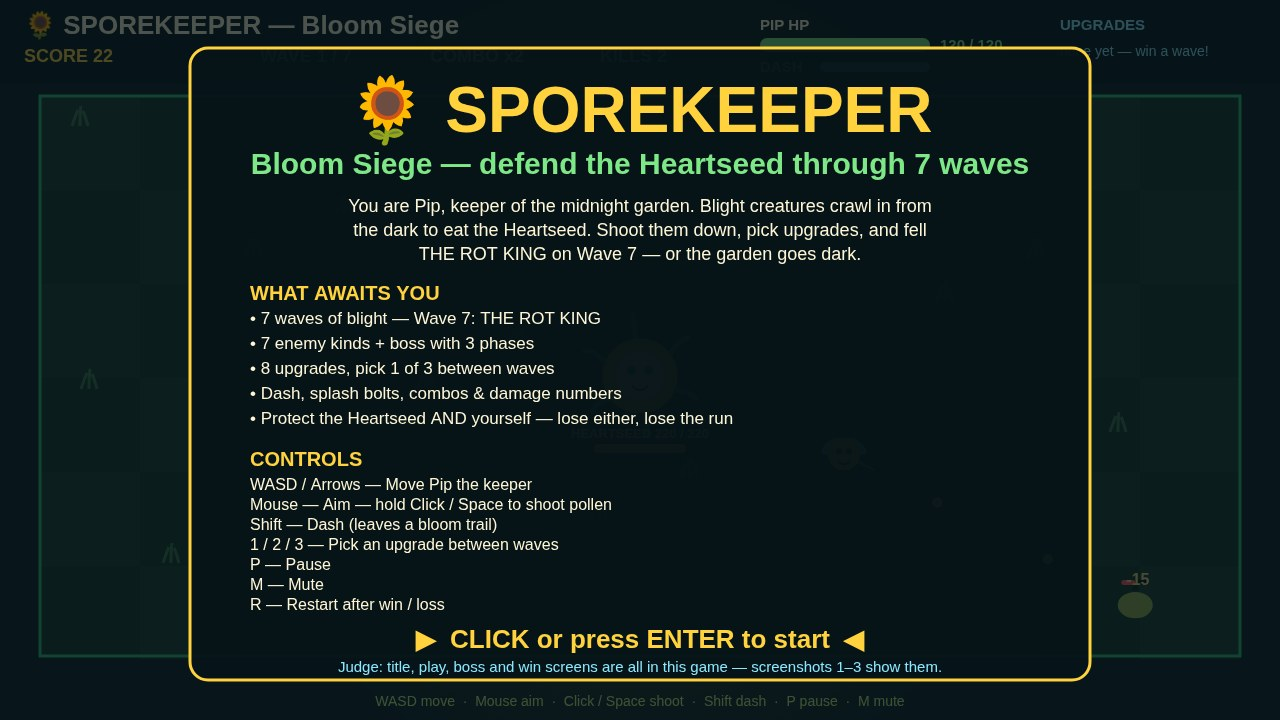
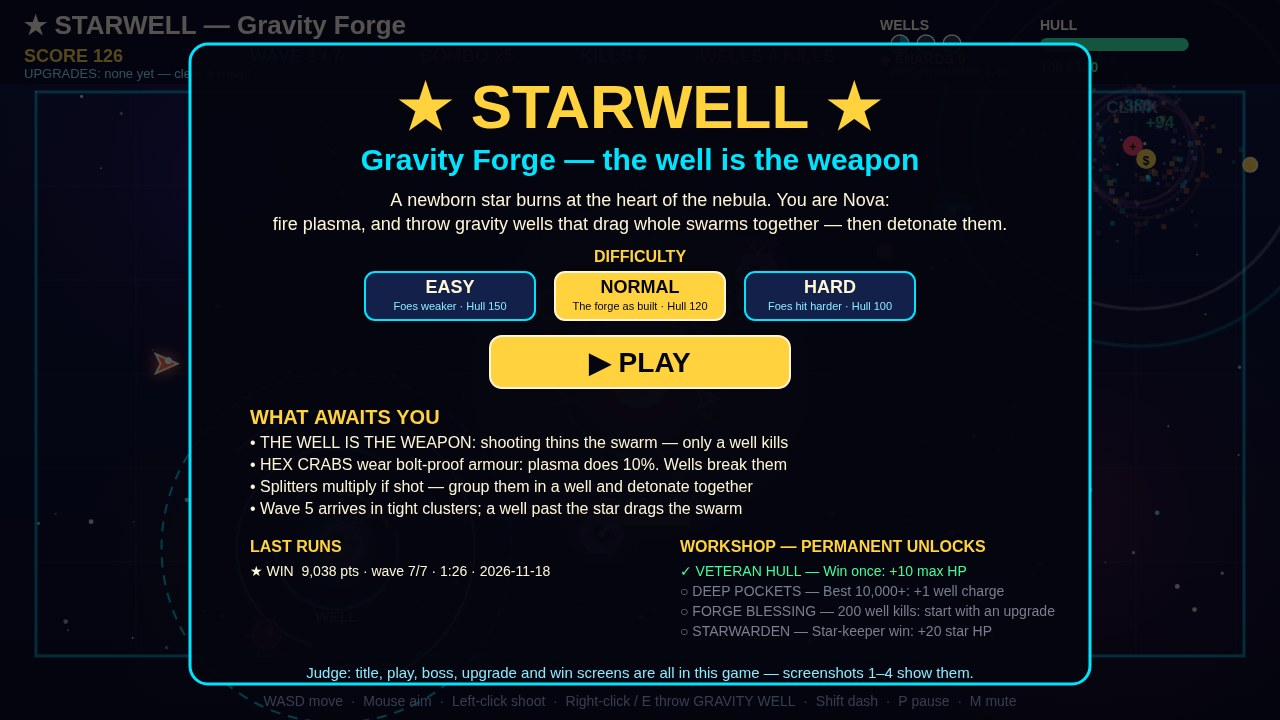
STARWELL — Gravity Forge (Pass 5) (#2)
* Add files via upload

* Add files via upload

* Add files via upload

* Add files via upload

* Delete screenshots/3-boss.jpg

diff --git a/game/src/meta.js b/game/src/meta.js
@@ -1,0 +1,35 @@
+// Persistent meta: best score, last runs, lifetime totals and permanent
+// unlocks. All localStorage access is wrapped in try/catch — a blocked or
+// missing store must never break the game.
+const KEY = 'starwell_meta_v1';
+
+export function loadMeta() {
+  const empty = { best: 0, wins: 0, runs: 0, totalWellKills: 0, starKeeperWins: 0, lastRuns: [] };
+  try {
+    const raw = localStorage.getItem(KEY);
+    if (!raw) return empty;
+    const m = JSON.parse(raw);
+    return { ...empty, ...m, lastRuns: Array.isArray(m.lastRuns) ? m.lastRuns.slice(0, 3) : [] };
+  } catch { return empty; }
+}
+
+export function saveMeta(meta) {
+  try { localStorage.setItem(KEY, JSON.stringify(meta)); } catch { /* store unavailable — play on */ }
+}
+
+// Record a finished run (win or loss) and return the updated meta.
+export function recordRun(meta, run) {
+  const entry = {
+    won: run.won, score: run.score, wave: run.wave,
+    time: Math.round(run.time), kills: run.kills,
+    date: new Date().toISOString().slice(0, 10),
+  };
+  meta.runs += 1;
+  if (run.won) meta.wins += 1;
+  if (run.won && run.minStarHp >= run.starMaxHp / 2) meta.starKeeperWins += 1;
+  meta.totalWellKills += run.stats.wellKills;
+  if (run.score > meta.best) meta.best = run.score;
+  meta.lastRuns = [entry, ...meta.lastRuns].slice(0, 3);
+  saveMeta(meta);
+  return meta;
+}

diff --git a/game/index.html b/game/index.html
@@ -3,15 +3,16 @@
 <head>
 <meta charset="utf-8">
 <meta name="viewport" content="width=device-width, initial-scale=1">
-<title>SPOREKEEPER — Bloom Siege</title>
+<link rel="icon" href="data:,">
+<title>STARWELL — Gravity Forge</title>
 <style>
-  html, body { margin: 0; height: 100%; overflow: hidden; background: #071418; }
+  html, body { margin: 0; height: 100%; overflow: hidden; background: #04050f; }
   #game { position: fixed; inset: 0; width: 100%; height: 100%; display: block; touch-action: none; }
   #status { position: absolute; width: 1px; height: 1px; overflow: hidden; clip-path: inset(50%); white-space: nowrap; }
 </style>
 </head>
 <body>
-<canvas id="game" aria-label="SPOREKEEPER Bloom Siege: Pip the keeper defends the Heartseed through 7 waves of blight"></canvas>
+<canvas id="game" aria-label="STARWELL Gravity Forge: Nova the skiff defends a newborn star with gravity wells through 7 waves"></canvas>
 <p id="status" role="status" aria-live="polite"></p>
 <script type="module" src="./src/main.js"></script>
 </body>

diff --git a/main.ts b/main.ts
@@ -1,6 +1,7 @@
-// SPOREKEEPER — Bloom Siege, a best-game-01 entry (Node 22, stdlib only).
-// Original game written in this session: a night-garden wave defence where
-// Pip the keeper protects the Heartseed through 7 waves and a boss.
+// STARWELL — Gravity Forge, a best-game-01 entry (Node 22, stdlib only).
+// Original game written in this session: Nova the skiff defends a newborn
+// star in a dark nebula through 7 waves and two bosses, throwing gravity
+// wells that pull whole swarms together and then detonate them.
 // The game is plain static files under game/ (index.html + ES modules, no
 // library, no network request). This program hands it in: it copies game/
 // and screenshots/ from beside this file to /output and writes

diff --git a/README.md b/README.md
@@ -1,0 +1,58 @@
+# STARWELL — Gravity Forge
+
+**STARWELL — Gravity Forge: throw wells that drag whole swarms together, then detonate — 2 realms, branching road, 2 bosses, 8 upgrades, 6 relics, 3 difficulties**
+
+You are Nova, a skiff defending a newborn star at the heart of a dark nebula. Void creatures crawl in to eat the star. Fire plasma to thin the swarm — but the well is the weapon: throw a gravity well and it drags whole clusters together, then detonates them. Hex Crabs wear bolt-proof armour (plasma does 10%), so only a well kills them. Defend the star **and** your hull — lose either, lose the run.
+
+## How to play
+
+| Key | Action |
+| --- | --- |
+| WASD / Arrows | Fly Nova the skiff |
+| Mouse + Left-click (hold) | Aim and fire plasma |
+| Right-click / E | Throw a gravity well at the cursor |
+| Shift | Dash (brief invulnerability) |
+| 1 / 2 / 3 | Pick an upgrade between waves |
+| 4 / 5 / 6 | Pick a road between waves |
+| P | Pause |
+| M | Mute |
+| R | Restart after win / loss |
+| T | Back to title after win / loss |
+| Enter | Start (or click PLAY) |
+
+Between waves you pick **one upgrade and one road**: the road changes the next wave (Safe, Rich, or Ember) and grants one relic. The run ends when you slay THE HOLLOW SUN (wave 7) or when the star or your hull hits 0.
+
+## Features
+
+- **7 waves** across **2 realms**: the Nebula Reach (waves 1–4) and the Ember Deep (waves 5–7, where foes are 10% faster and wells hit 10% harder)
+- **2 bosses**: VOIDMAW (wave 4) and THE HOLLOW SUN (wave 7, 3 phases with named attacks)
+- **7 enemy kinds**: Shardling, Spitter Orb, Hex Crab, Void Serpent, Darter, Drain Leech, Splitter
+- **8 upgrades**, pick 1 of 3 between waves (Wide Well, Nova Burst, Twin Wells, Hot Plasma, Split Cannon, Overclock, Aegis Hull, Chain Nova)
+- **6 relics**, one granted by each road card (Ember Core, Star Lens, Swift Fins, Magnet Coil, Iron Hull, Chain Spark)
+- **3 difficulties**: Easy, Normal, Hard (foe HP/damage/speed and hull 150/120/100)
+- **Branching road** between waves, with a road map (wave rail) in the HUD
+- **Rank** (S/A/B/C), stats grid, and 6 achievements on the victory screen
+- **Workshop**: 4 permanent unlocks earned by past runs, saved in localStorage
+- Combo chains with big callouts, damage numbers, pickups, dash, and a quiet generative soundtrack (all sound is code-generated WebAudio — no audio files)
+
+## How to run locally
+
+```sh
+node serve.ts
+```
+
+Then open <http://localhost:8080>. The game is plain static files under `game/` (index.html + ES modules, no build step, no network requests) and plays at 1280×720.
+
+To build the submission dossier:
+
+```sh
+mkdir -p out && MAKEFUN_OUTPUT_DIR=out node main.ts
+```
+
+`main.ts` (Node 22, stdlib only) copies `game/` and `screenshots/` to the output directory and writes `dossier.json` with the vendored make.fun library.
+
+## Entry
+
+An original game written for the Make.fun "Make the best game" bounty (best-game-01). All art is drawn in code; all sound is generated in code. No starter, tutorial, or other entry was copied.
+
+SPDX-License-Identifier: MIT
